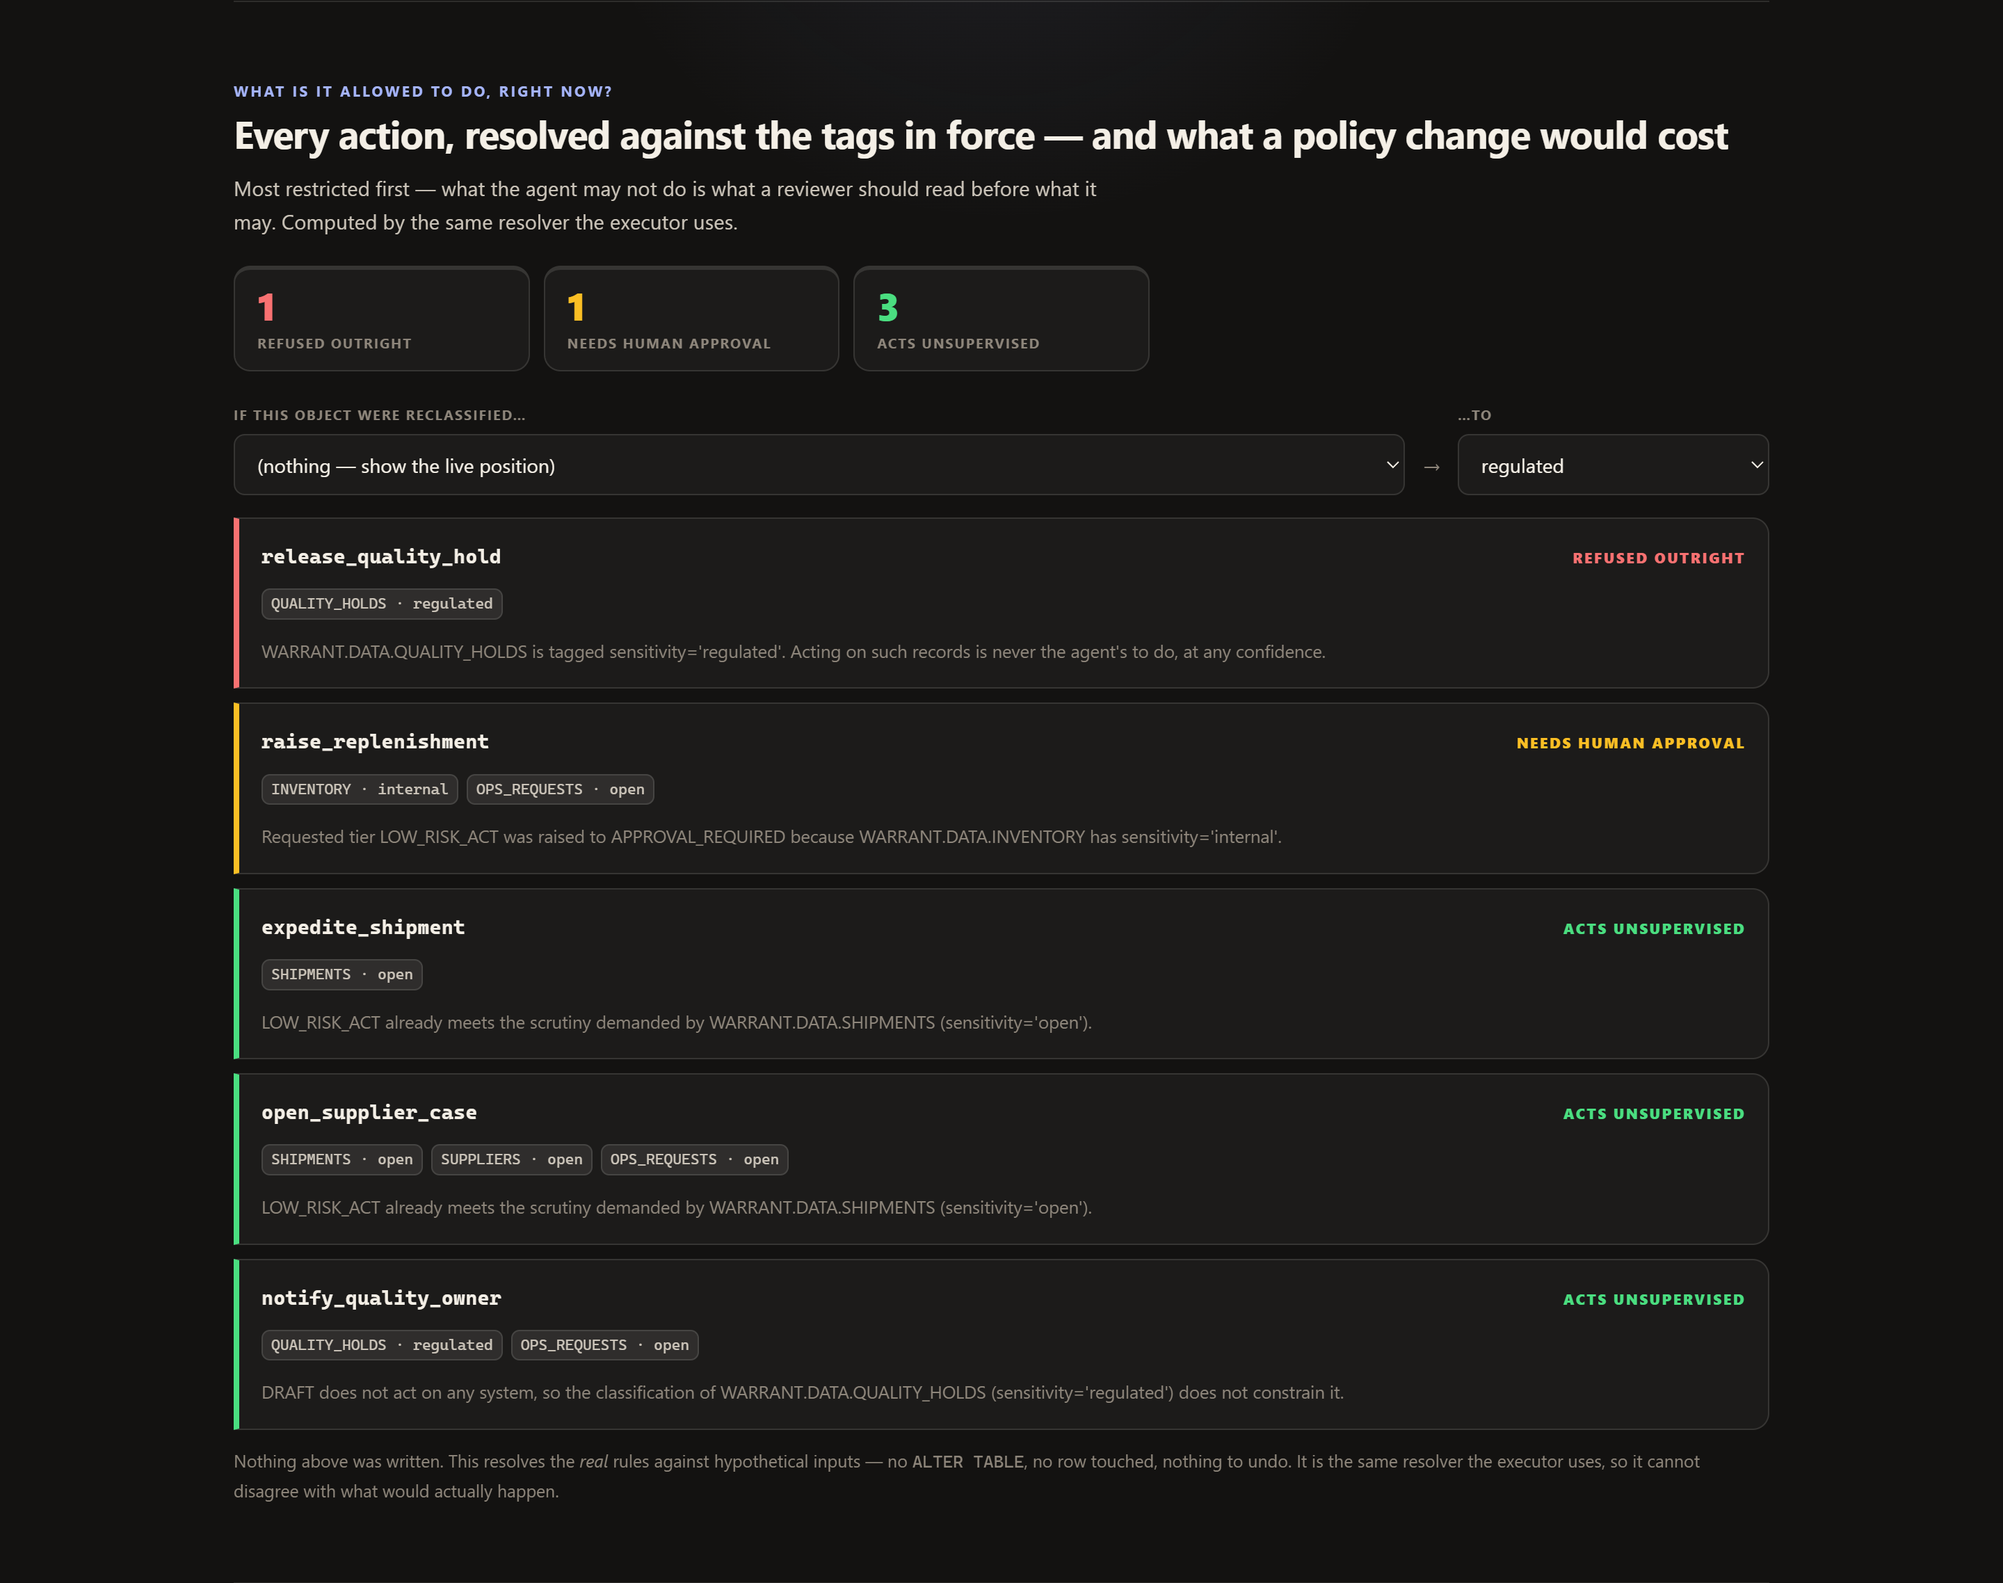
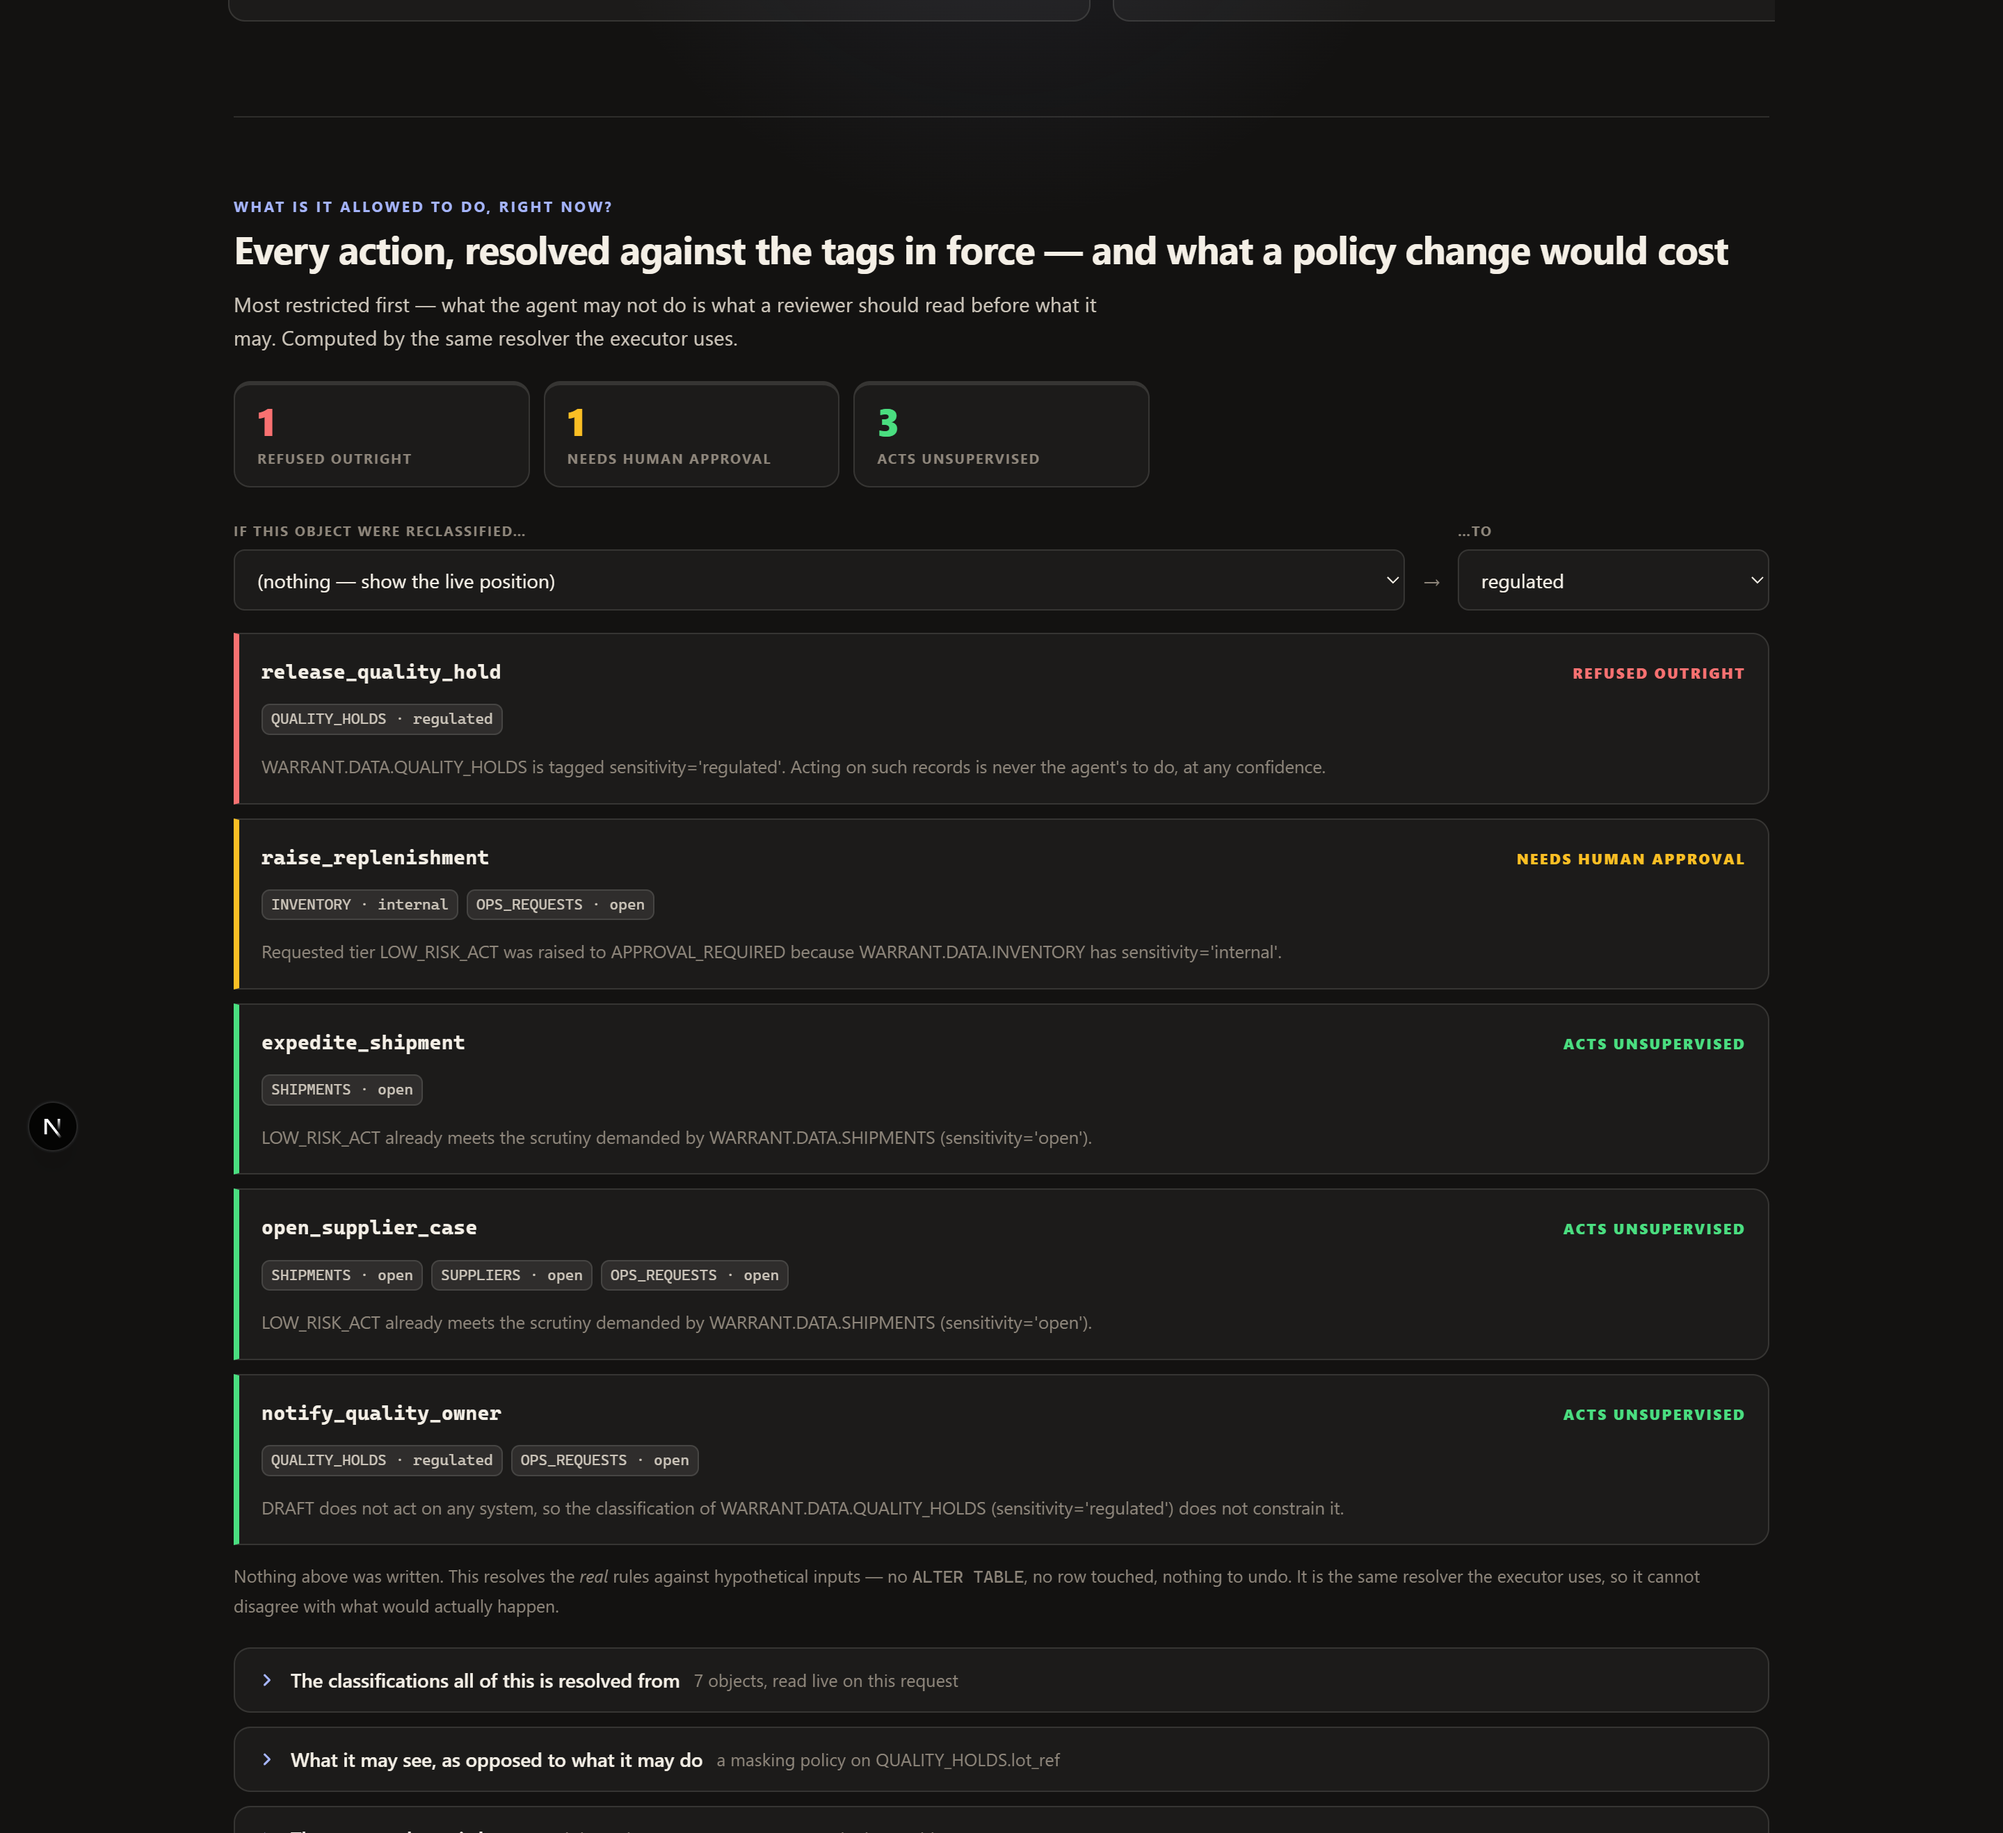
Make the page read short and prove deep
Measured at 1280x720 it was 13,619px — 18.9 screens, 4,766 words, about
twenty minutes of reading put in front of a reviewer who has three
minutes. Thirteen sections, six tables and sixty inline code spans, all
in the same considered voice, so nothing stood out because nothing was
short.

None of the depth is cut. It is tiered.

Replay, refusals and the append-only log were three headings making one
argument — that the record is honest enough to audit — and are now one
section. Governance is not a separate claim either; it is the input
authority resolves against, and the hero widget already shows the three
classifications that matter, so it folds into that section.

Reference material goes behind native <details>. Two rules keep that
honest: the summary states the claim, so a reader who never opens one has
still read what is asserted and only the proof is a click away; and only
static material goes inside, so nothing a reader can interact with ever
sits behind something they must first discover. The contents stay in the
DOM — 6,230 characters of audit log verified present behind a closed
disclosure, which find-in-page still reaches.

Three shortcut cards under the tiles name the anchors that carry the
whole argument, so the long page stops taxing the reader in a hurry.
Section ledes cut to one sentence each.

Now 10,988px — 15.3 screens, 3,481 words, one visible table instead of
six, nine nav entries instead of eleven. Expanding all six disclosures
[…]

diff --git a/docs/deck_slides.md b/docs/deck_slides.md
@@ -298,7 +298,7 @@ clipped to the section's measured bounding box, so nothing is cut mid-heading.
 | `web/evidence.png` | 6 | Evidence beside reasoning, the live controls, **and the refusal already fired** — captured with the green verdict panel showing, so it needs no explanation. |
 | `web/tested.png` | 4 or 6 | The planted attack and the scored reasoning, side by side. |
 | `web/unattended.png` | 4 | The 24-hour task timeline. Both tasks started, **0 failed**, hourly sweep visibly running. |
-| `web/authority-whatif.png`, `web/replay.png`, `web/refusals.png`, `web/governance.png` | spares | Use if a slide is thin. `governance.png` is the light-theme tag table. |
+| `web/authority-whatif.png`, `web/replay.png`, `web/refusals.png`, `web/governance.png` | spares | Use if a slide is thin. `refusals.png` is the merged **record** section — three refusals, the replay tiles, and the two folded tables. `replay.png` and `governance.png` are the same section with a disclosure opened, so they are tall; crop before using. |
 | `web/mobile.png`, `web/mobile-refusal.png` | — | Only if you want to show it works on a phone. Usually cut. |
 | `refusal-banner.png` | 6 | The Streamlit console. If you keep exactly one console shot, keep this one: a human approved it and it was refused anyway. |
 | the other seven console shots | spares | `console-headline`, `evidence-and-reasoning`, `queue-already-decided`, `authority-manifest`, `whatif-revocation`, `replay`, `column-governance` |
